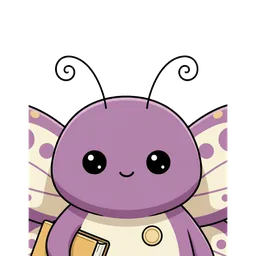
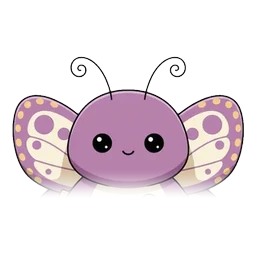
fix: ヒラリ・タツのアイコンを Lv3 から頭を切り出して作り直す(0.82.3)
ヒラリは下端で体が切れ、羽が四角く切れていた。タツは顔が小さく、ひげの先が切れていた。
Lv3(normal)から切り出し、下は透明にぼかす。画像の差し替えのみ。

diff --git a/CHANGELOG.md b/CHANGELOG.md
@@ -4,6 +4,11 @@
 
 ## [Unreleased]
 
+## [0.82.3] - 2026-10-22
+
+### Changed
+- ヒラリ・タツのアイコン（`hirari_icon_256.webp`・`tatsu_icon_256.webp`）を、各キャラの Lv3（normal）の画像から頭を切り出して作り直した。ヒラリは下端で体が切れ、羽が枠で四角く切れていた。タツは顔が小さく、ひげの先が切れて見えていた。どちらも、羽・ひげの先まで全体が入り、下は透明にぼかして自然に消える（256x256・webp・RGBA、他のアイコンと同じ）。画像の差し替えのみで、コードの変更なし
+
 ## [0.82.2] - 2026-10-21
 
 ### Added
